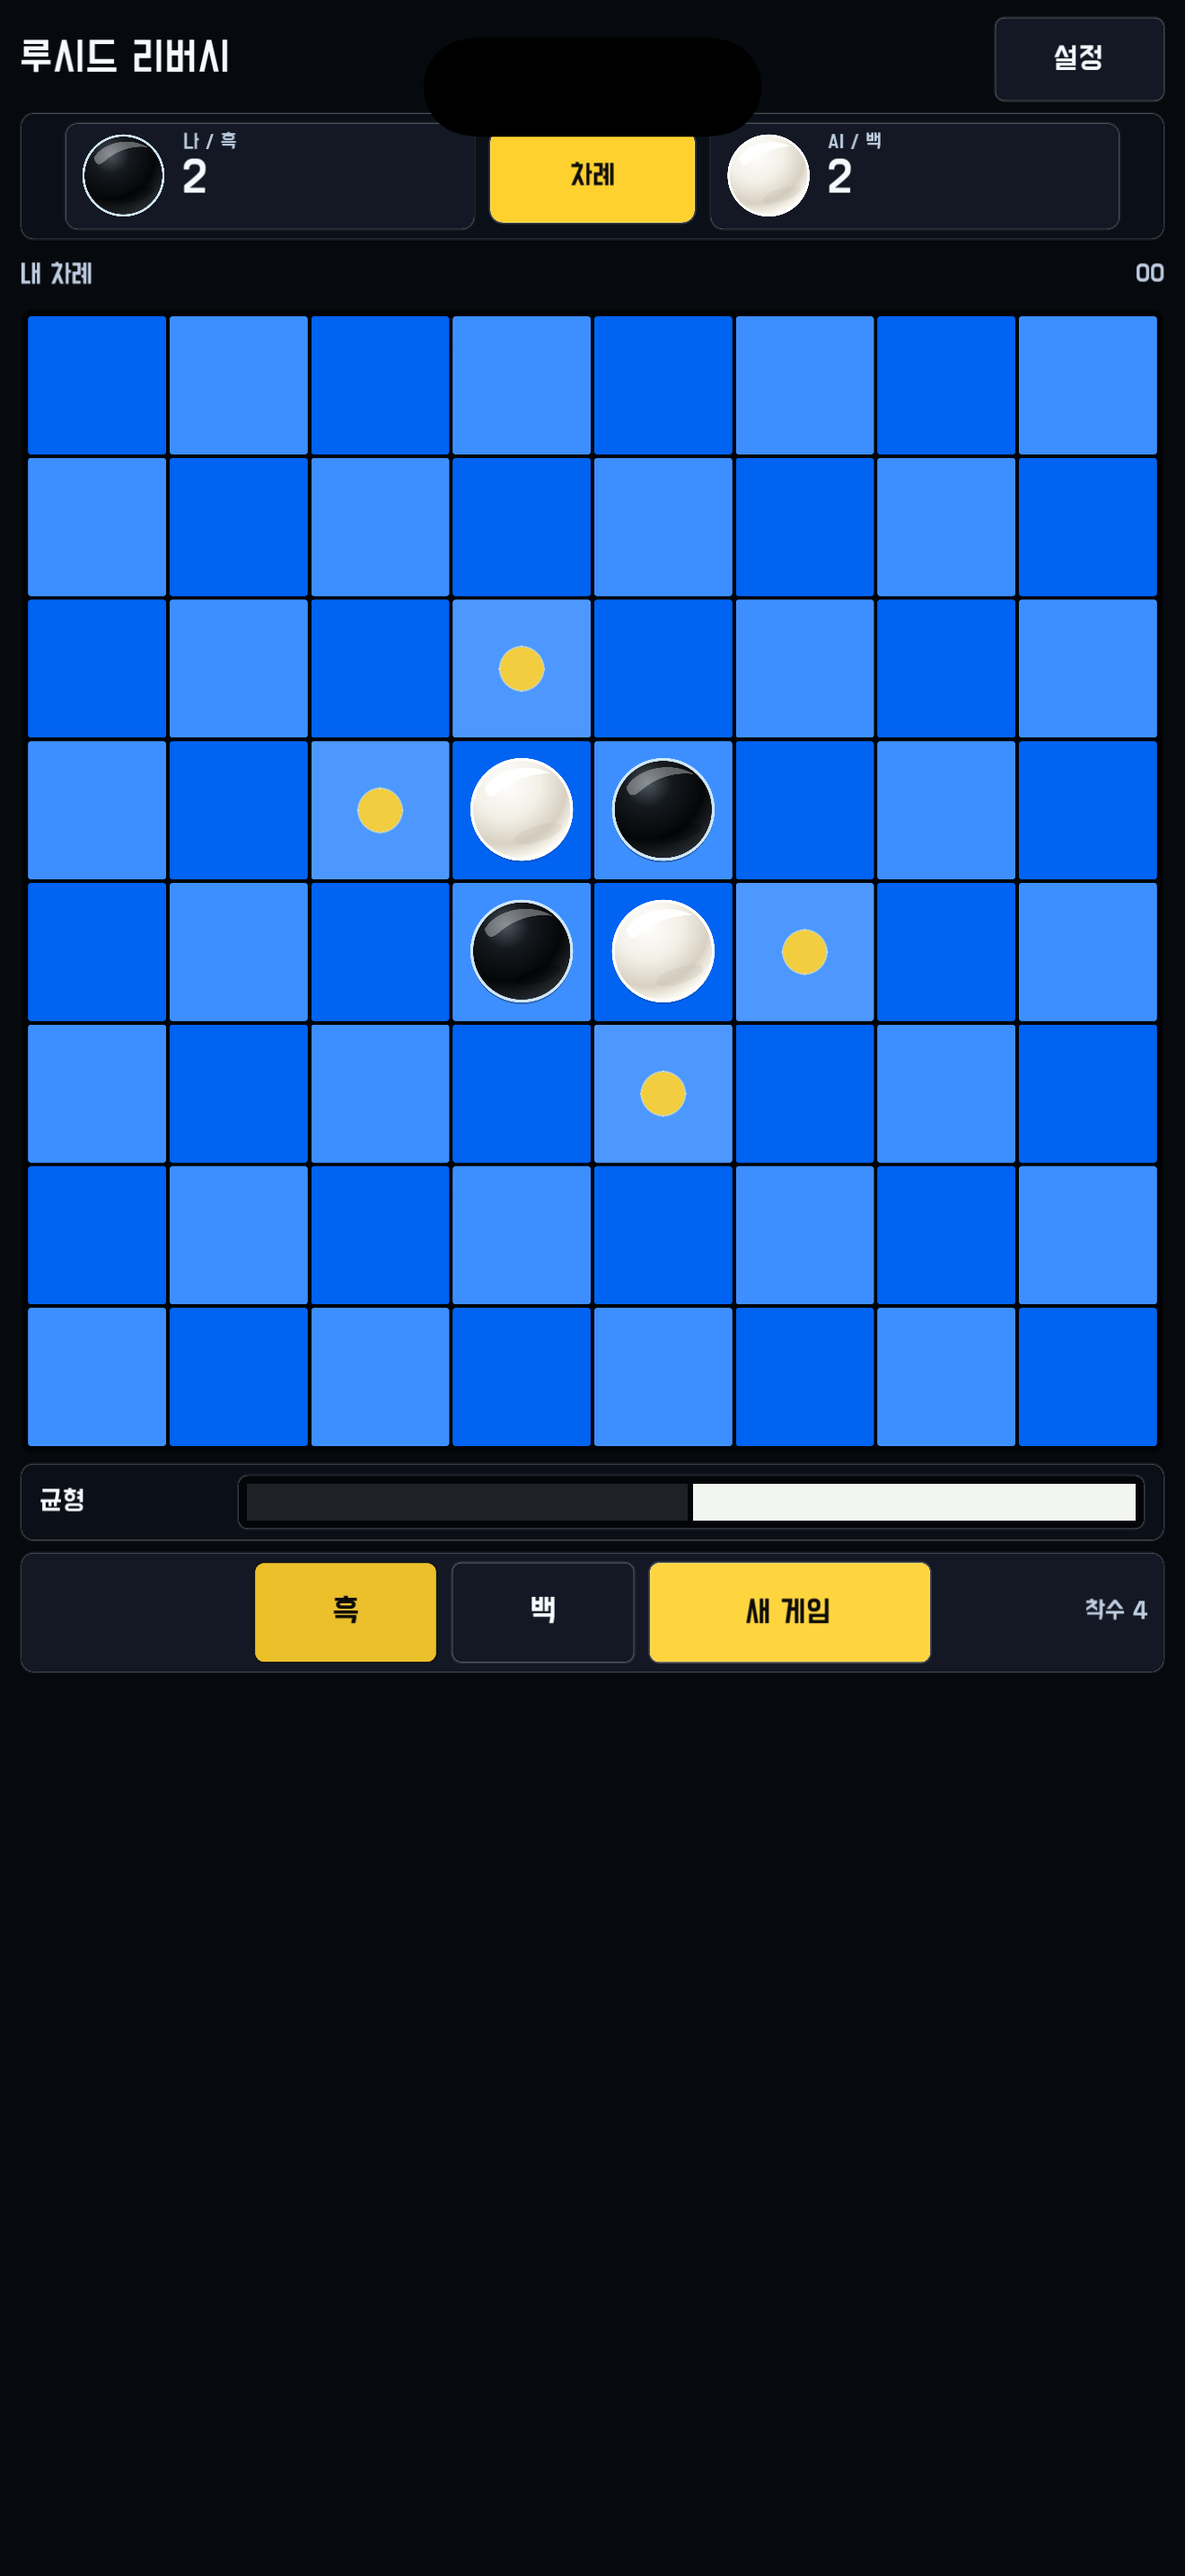
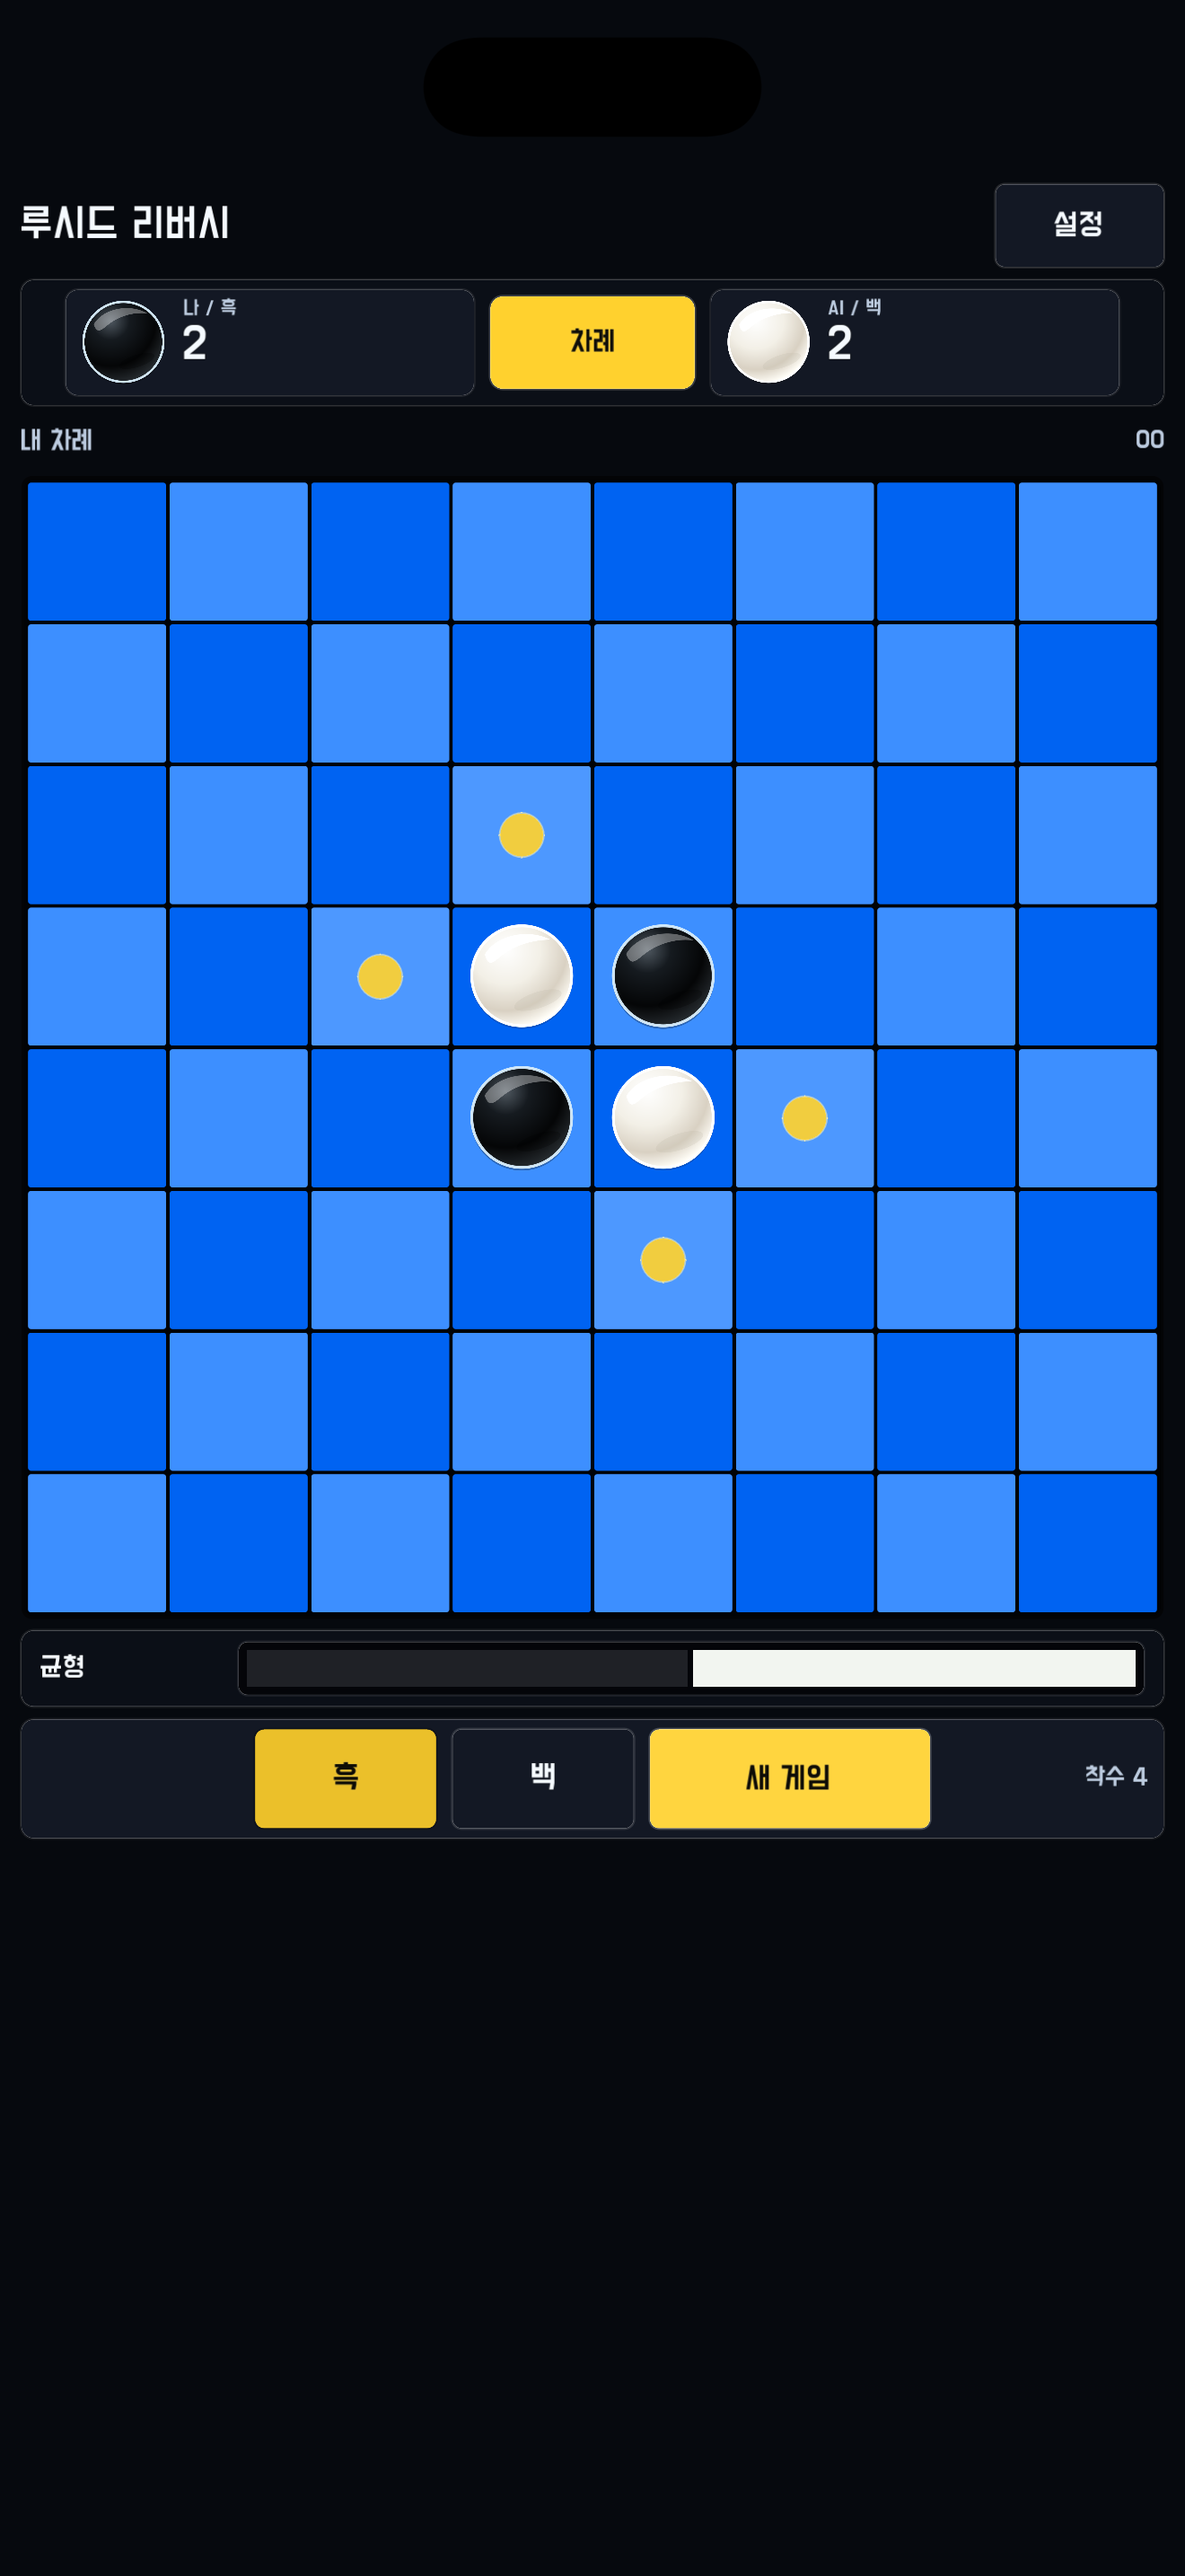
chore(lucid-reversi): App Store 스크린샷 최신 UI로 3장씩 재캡처 (iPhone/iPad)
- iPhone 6.9"(1320x2868)·iPad 13"(2064x2752) 각 3장: classic 초기·arctic 대국·ember 대국.
  최신 UI(safe area 반영)·한글 로케일, x86_64 시뮬레이터 실 캡처.
- godot/tools/gen_sshot.gd: 테마별 대국 save 생성 도구(state_to_save_dict 형식).
- app-store.config.json / docs 갱신 + 캡처 재현 방법 기록.

diff --git a/docs/05-markets/app-store.md b/docs/05-markets/app-store.md
@@ -53,10 +53,11 @@
 ## Assets
 
 - App icon: 1024x1024 store icon(`app-store/assets/AppIcon-1024.png`, 알파 없음) + Xcode AppIcon.appiconset(iPhone+iPad 슬롯)
-- iPhone 6.9" screenshot: `app-store/screenshots/iphone-6.9/01-board.png` (1320×2868) ✅ 실 시뮬레이터 캡처
-- iPad 13" screenshot: `app-store/screenshots/ipad-13/01-board.png` (2064×2752) ✅ 실 시뮬레이터 캡처
-- 캡처 방법: x86_64(Rosetta) 시뮬레이터 빌드(Godot 엔진 simulator lib가 arm64 슬라이스 없음) → iPhone 16 Pro Max / iPad Pro 13"(M4) 부팅·실행·`simctl io screenshot`.
-- 비고: 게임이 720×1280로 설계돼 더 긴 화면에서 하단 레터박스(검은 영역) 발생 — Apple 허용. 더 꽉 찬 화면 원하면 게임 stretch/aspect 조정(별도 작업). 화면당 1장씩이라 다양화하려면 탭 입력 화면 수동 보완.
+- iPhone 6.9" screenshots: `app-store/screenshots/iphone-6.9/{01-board,02-arctic,03-ember}.png` (각 1320×2868, **3장**) ✅ 최신 UI(safe area 반영) 실 시뮬레이터 캡처
+- iPad 13" screenshots: `app-store/screenshots/ipad-13/{01-board,02-arctic,03-ember}.png` (각 2064×2752, **3장**) ✅ 최신 UI 실 시뮬레이터 캡처
+- 각 3장: 01=기본(classic) 초기 보드, 02=북극(arctic) 대국, 03=잉걸(ember) 대국. 모두 한글 로케일.
+- 캡처 방법(재현): (1) x86_64 시뮬레이터 빌드 `xcodebuild -sdk iphonesimulator ARCHS=x86_64 CODE_SIGNING_ALLOWED=NO`(Godot simulator lib가 arm64 슬라이스 없음). (2) `godot -s res://tools/gen_sshot.gd`로 테마별 save 생성(`state_to_save_dict` 형식). (3) 시뮬 앱 `Documents/save_v1.json`(=Godot `user://`)에 주입 → boot·install·launch·~20s 대기·`simctl io screenshot`. iPhone 16 Pro Max / iPad Pro 13"(M4).
+- 비고: 게임이 720×1280 설계라 더 긴 화면에서 하단 레터박스(검은 영역) 발생 — Apple 허용. 더 꽉 찬 화면 원하면 stretch/aspect 조정(별도 작업).
 
 ## Build / Upload 상태 (2026-07-07)
 
